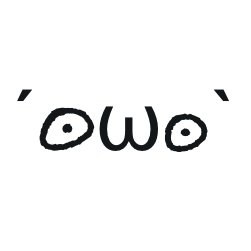
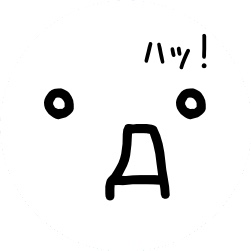
顔の画像差し替え

diff --git a/script.js b/script.js
@@ -27,24 +27,24 @@ $(function () {
         }
     );
     //profile-imageの切り替え
-    $(".profile-image").hover(
-        function () {
-            $(this).attr(
-                "src",
-                $(this)
-                    .attr("src")
-                    .replace("icon", "icon-shock")
-            );
-        },
-        function () {
-            $(this).attr(
-                "src",
-                $(this)
-                    .attr("src")
-                    .replace("icon-shock", "icon")
-            );
-        }
-    );
+    // $(".profile-image").hover(
+    //     function () {
+    //         $(this).attr(
+    //             "src",
+    //             $(this)
+    //                 .attr("src")
+    //                 .replace("icon", "icon-shock")
+    //         );
+    //     },
+    //     function () {
+    //         $(this).attr(
+    //             "src",
+    //             $(this)
+    //                 .attr("src")
+    //                 .replace("icon-shock", "icon")
+    //         );
+    //     }
+    // );
     $("#top-copy").hover(
         function () {
             $(this).text("ぽんぽこぽん！(´>ω<`)");
